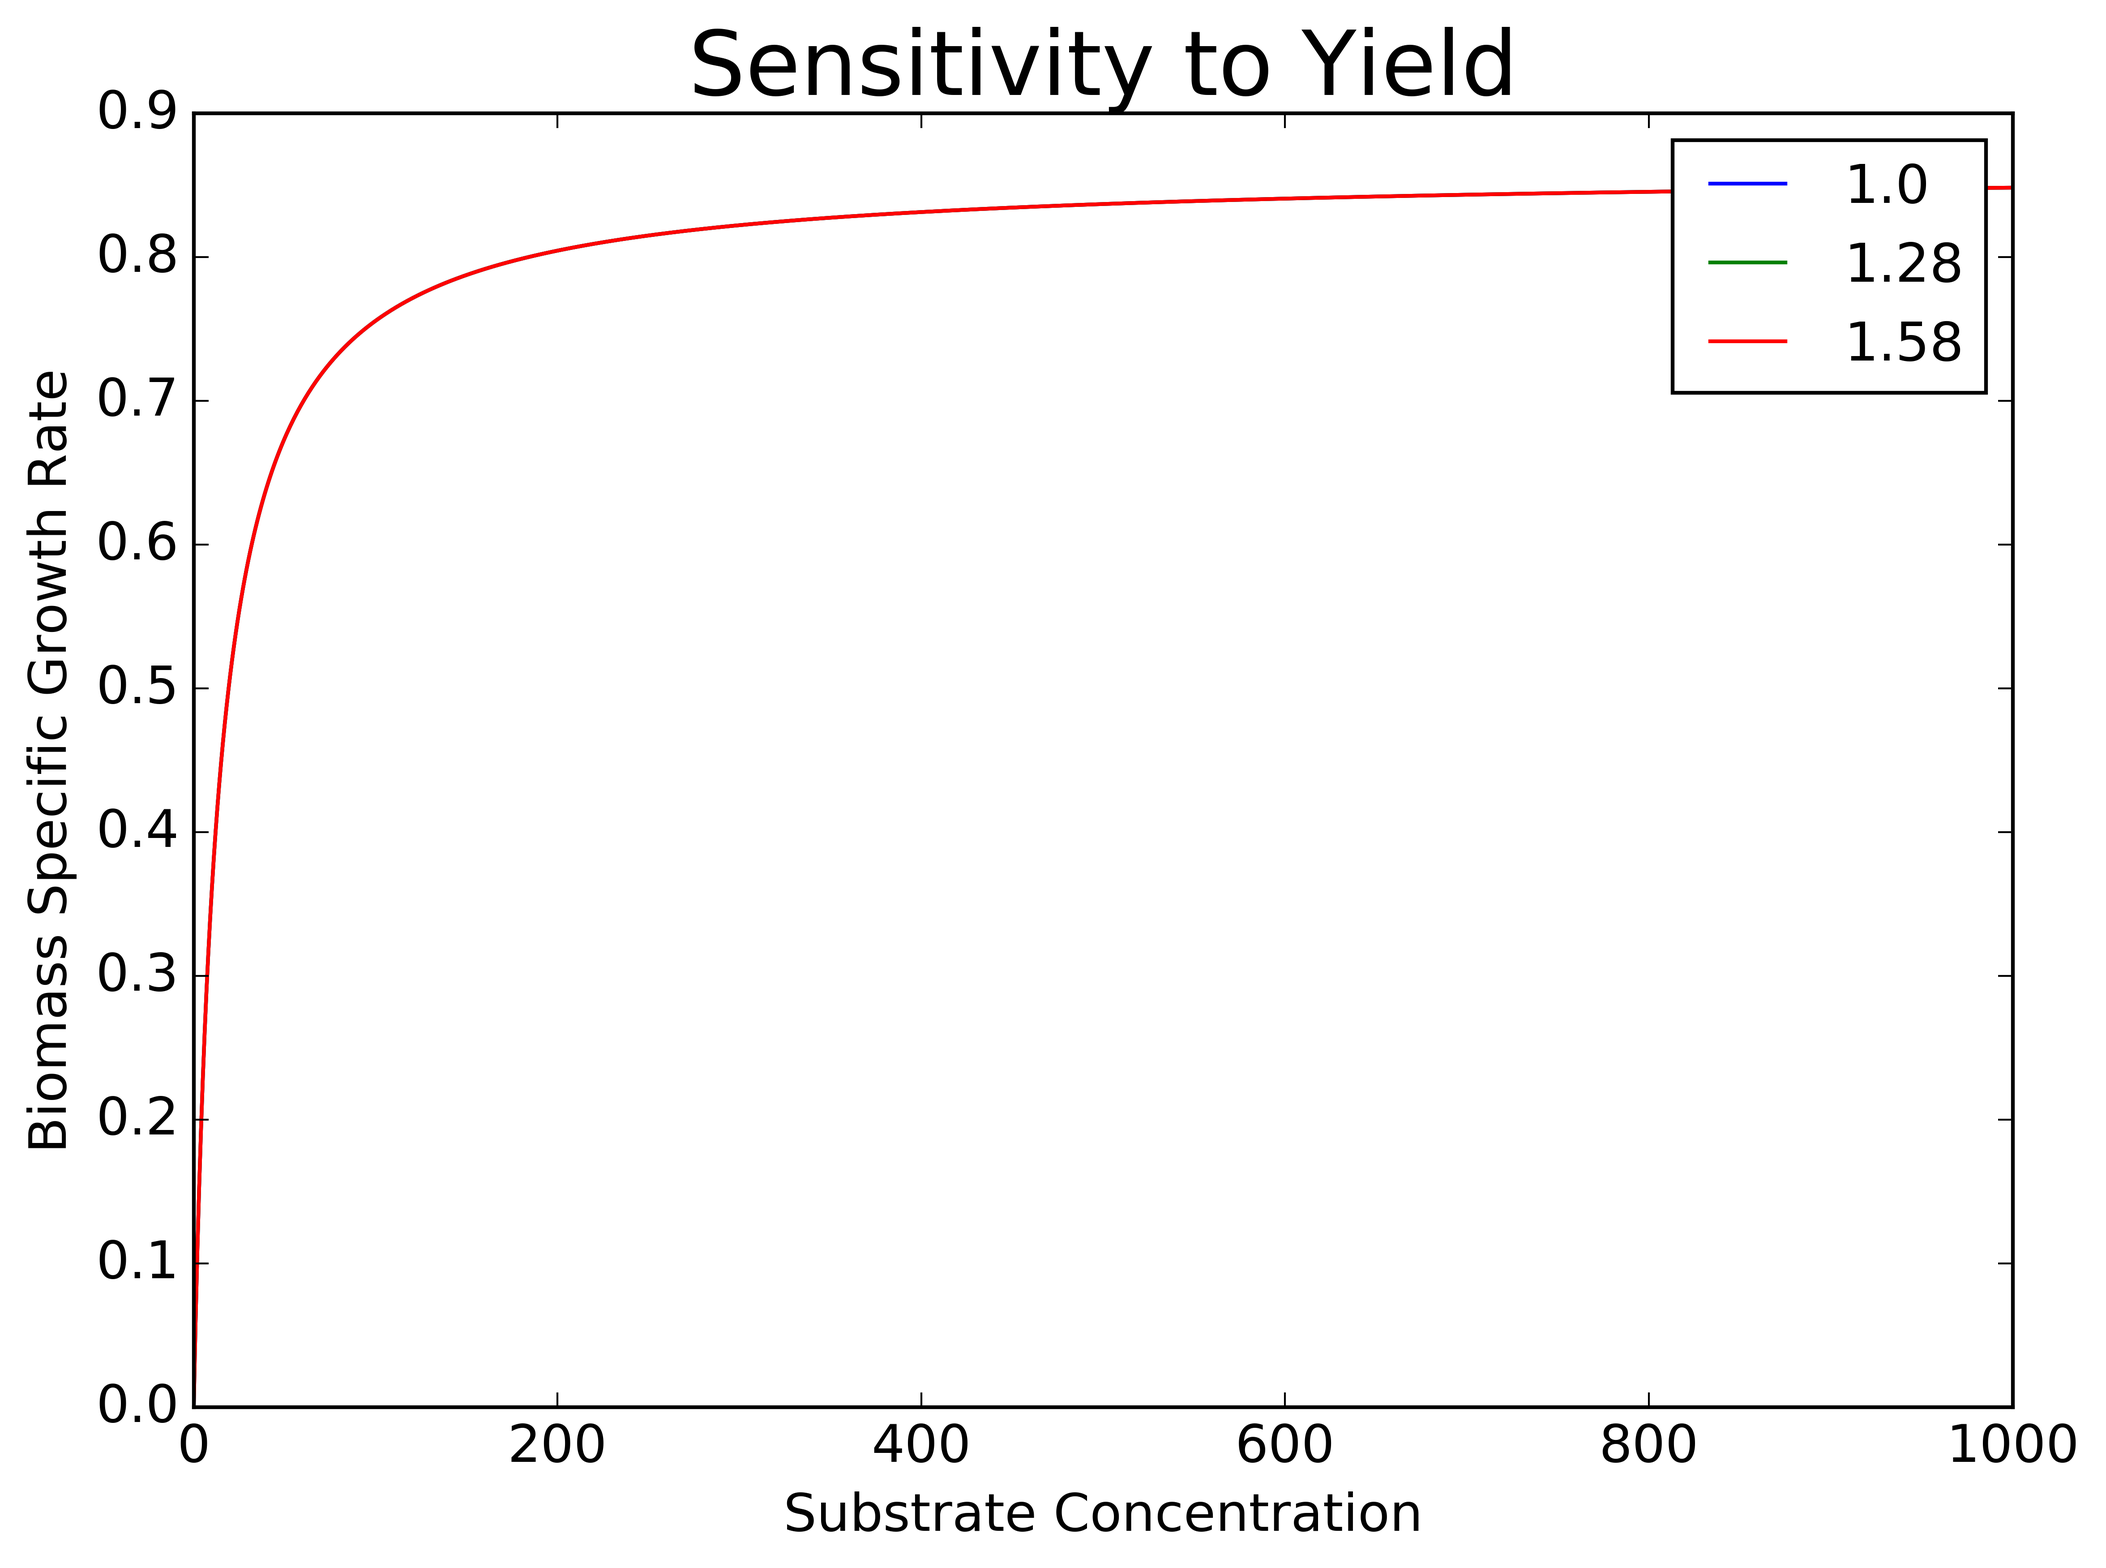
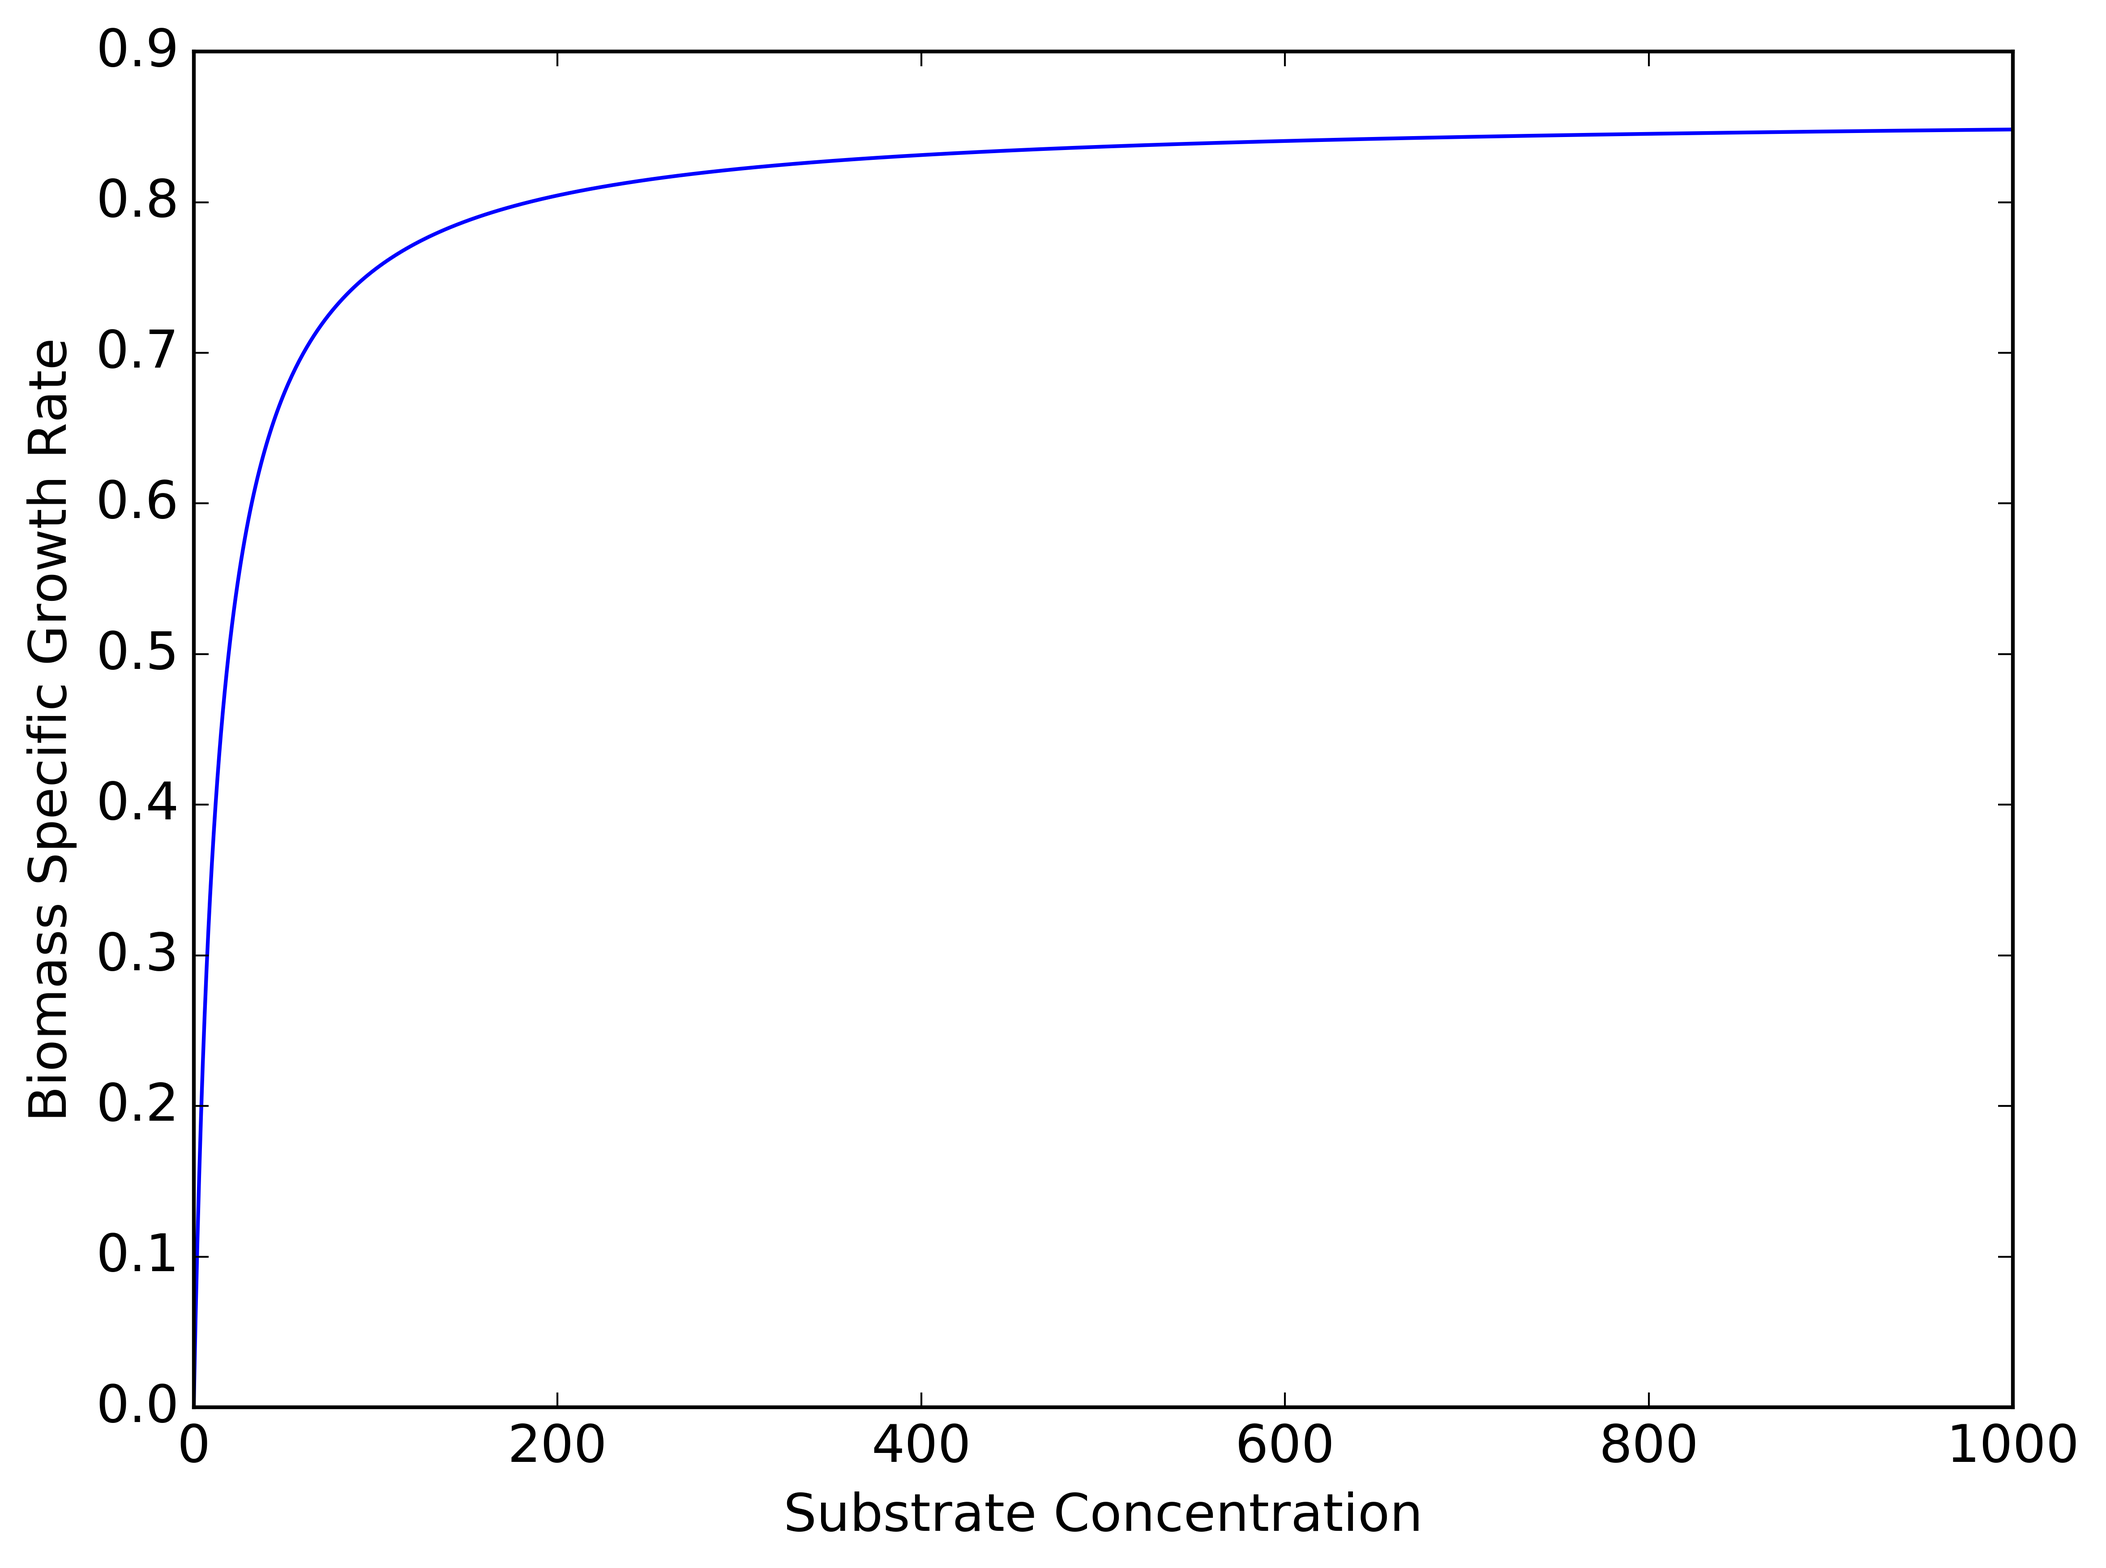
completed substrate batch and made plots

diff --git a/Biodegradation/runbio.py b/Biodegradation/runbio.py
@@ -4,7 +4,10 @@ import matplotlib.style
 import matplotlib as mpl
 from scipy.integrate import odeint
 
+from Biodegradation.Biomass.BiomassBatch import BiomassBatch
+from Biodegradation.Plotting.plotting import Plotting
 from Biodegradation.Substrate.Monod import Monod
+from Biodegradation.Substrate.SubstrateBatch import SubstrateBatch
 
 mpl.style.use('classic')
 number_of_points = 1000
@@ -20,101 +23,50 @@ death_rate = 0.18
 yield_mass = 1.28
 
 monod = Monod(max_biomass_growth_rate, monod_constant, sub_values)
-growthe = monod.growth_rate()
-plt.plot(sub_values, growthe)
-plt.show()
+biomass_growth = monod.growth_rate()
+# plot = Plotting()
+# plot.plotMonod(sub_values, biomass_growth, 'Biomass Specific Growth Rate')
 
-def all_data(number_of_points, max_biomass_growth_rate, monod_constant, initial_sub_conc, initial_biomass_conc,
-             death_rate, yield_mass):
-    sub_values = np.linspace(0, 1000, number_of_points)
-    time = np.linspace(0.01, 10, number_of_points)
-    utilization_rate = np.zeros(len(sub_values))
-    inner_value = np.zeros(len(sub_values))
-    biomass_conc = np.zeros(len(sub_values))
-    sub_conc = np.zeros(len(sub_values))
-    utilization_rate = max_biomass_growth_rate * (sub_values / (monod_constant + sub_values))
-    inner_value = (utilization_rate - death_rate) * time
-    biomass_conc = initial_biomass_conc * np.exp(inner_value)
-    sub_conc = initial_sub_conc - (biomass_conc / yield_mass)
-    return utilization_rate, biomass_conc, sub_conc
+biomass = BiomassBatch(death_rate, initial_biomass_conc, time, biomass_growth)
+biomass_conc = biomass.biomass_concentration_analytical()
+# plot = Plotting()
+# plot.plotConcentration(time, biomass_conc, 'Biomass Concentration')
 
+sub = SubstrateBatch(death_rate, initial_biomass_conc, initial_sub_conc, time, biomass_growth, yield_mass)
+sub_conc = sub.substrate_concentration_analytical()
+# plot = Plotting()
+# plot.plotConcentration(time, sub_conc, 'Substrate Concentration')
 
-# utilization_rate = np.zeros(len(sub_conc))
-# inner_value = np.zeros(len(sub_conc))
-# biomass_conc = np.zeros(len(sub_conc))
-# for i in range(0, len(sub_conc)):
-#     utilization_rate[i] = (max_biomass_growth_rate * sub_conc[i]) / (michaelis_constant + sub_conc[i])
-#     inner_value[i] = (utilization_rate[i] - death_rate) * time[i]
-#     biomass_conc[i] = initial_biomass_conc * np.exp(inner_value[i])
+death_rates = [0.18, 0.28, 0.38]
+death_rates_label = ["Death Rate of 0.18", "Death Rate of 0.28", "Death Rate of 0.38"]
+yield_masses = [1.00, 1.28, 1.58]
+yield_rates_label = ["Yield Rate of 1.00", "Yield Rate of 1.28", "Yield Rate of 1.58"]
 
+biomass_death_multi = []
+sub_death_multi = []
 
-# def dX_dt(inputt , t):
-#     output = inputt[1] * inputt[0]
-#     return output
-#
-#
-# def dS_dt(S, X):
-#     output = -1 / yield_mass * (max_biomass_growth_rate * S / monod_constant + S) * X
-#     return output
-#
-# test=[0,0]
-# x_sol = odeint(dX_dt, test, time)
-# # sol = odeint(dS_dt, initial_sub_conc, biomass_conc)
+biomass_yield_multi = []
+sub_yield_multi = []
+for i in range(len(death_rates)):
+    biomass = BiomassBatch(death_rates[i], initial_biomass_conc, time, biomass_growth)
+    sub = SubstrateBatch(death_rates[i], initial_biomass_conc, initial_sub_conc, time, biomass_growth, yield_mass)
+    sub_conc = sub.substrate_concentration_analytical()
+    biomass_conc = biomass.biomass_concentration_analytical()
+    biomass_death_multi.append(biomass_conc)
+    sub_death_multi.append(sub_conc)
 
-util = []
-biomass = []
-substrate = []
-death_rate = [0.18, 0.28, 0.38]
-yield_mass = [1.00, 1.28, 1.58]
-for i in range(len(death_rate)):
-    utilization_rate, biomass_conc, sub_conc = all_data(number_of_points, max_biomass_growth_rate, monod_constant,
-                                                        initial_sub_conc, initial_biomass_conc, death_rate[0],
-                                                        yield_mass[i])
-    util.append(utilization_rate)
-    biomass.append(biomass_conc)
-    substrate.append(sub_conc)
+for i in range(len(yield_masses)):
+    sub = SubstrateBatch(death_rate, initial_biomass_conc, initial_sub_conc, time, biomass_growth, yield_masses[i])
+    sub_conc = sub.substrate_concentration_analytical()
+    sub_yield_multi.append(sub_conc)
 
-fig, axs = plt.subplots(1, 1)
-axs.plot(sub_values, util[0], label=yield_mass[0])
-axs.plot(sub_values, util[1], label=yield_mass[1])
-axs.plot(sub_values, util[2], label=yield_mass[2])
-axs.legend()
-axs.set_title('Sensitivity to Yield', fontsize=24)
-axs.set_xlabel("Substrate Concentration", fontsize=14)
-axs.set_ylabel("Biomass Specific Growth Rate", fontsize=14)
-plt.setp(axs.get_xticklabels(), fontsize=14)
-plt.setp(axs.get_yticklabels(), fontsize=14)
-plt.show()
-fig.savefig('Monod' '.png', bbox_inches='tight', dpi=600)
-
-fig, axs = plt.subplots(1, 1)
-axs.plot(sub_values, biomass[0], label=yield_mass[0])
-axs.plot(sub_values, biomass[1], label=yield_mass[1])
-axs.plot(sub_values, biomass[2], label=yield_mass[2])
-axs.legend()
-axs.set_title('Sensitivity to Yield', fontsize=24)
-axs.set_xlabel("Time (hours)", fontsize=14)
-axs.set_ylabel("Biomass Concentration (mg)", fontsize=14)
-plt.setp(axs.get_xticklabels(), fontsize=14)
-plt.setp(axs.get_yticklabels(), fontsize=14)
-plt.show()
-fig.savefig('Biomass Conc' '.png', bbox_inches='tight', dpi=600)
-#
-fig, axs = plt.subplots(1, 1)
-axs.plot(sub_values, substrate[0], label=yield_mass[0])
-axs.plot(sub_values, substrate[1], label=yield_mass[1])
-axs.plot(sub_values, substrate[2], label=yield_mass[2])
-axs.legend()
-axs.set_title('Sensitivity to Yield', fontsize=24)
-axs.set_xlabel("Time (hours)", fontsize=14)
-axs.set_ylabel("Substrate Concentration (mg)", fontsize=14)
-plt.setp(axs.get_xticklabels(), fontsize=14)
-plt.setp(axs.get_yticklabels(), fontsize=14)
-plt.show()
-fig.savefig('Substrate Conc' '.png', bbox_inches='tight', dpi=600)
-
-# plt.figure()
-# plt.plot(time, sol)
-# plt.xlabel("Time")
-# plt.ylabel("Substrate Concentration")
-# plt.show()
+plot = Plotting()
+plot.plotConcentrationMultiOnSingle(time, biomass_death_multi, 'Biomass Concentration', death_rates_label,
+                                    format="Biomass",
+                                    title="Death Rate Sensitivity Plots")
+plot.plotConcentrationMultiOnSingle(time, sub_death_multi, 'Substrate Concentration', death_rates_label,
+                                    format="Substrate",
+                                    title="Death Rate Sensitivity Plots")
+plot.plotConcentrationMultiOnSingle(time, sub_yield_multi, 'Substrate Concentration', yield_rates_label,
+                                    format="Substrate Yield",
+                                    title="Yield Sensitivity Plots")

diff --git a/Biodegradation/initial_runfile.py b/Biodegradation/initial_runfile.py
@@ -1,0 +1,99 @@
+import numpy as np
+import matplotlib.pyplot as plt
+import matplotlib.style
+import matplotlib as mpl
+
+def all_data(number_of_points, max_biomass_growth_rate, monod_constant, initial_sub_conc, initial_biomass_conc,
+             death_rate, yield_mass):
+    sub_values = np.linspace(0, 1000, number_of_points)
+    time = np.linspace(0.01, 10, number_of_points)
+    utilization_rate = np.zeros(len(sub_values))
+    inner_value = np.zeros(len(sub_values))
+    biomass_conc = np.zeros(len(sub_values))
+    sub_conc = np.zeros(len(sub_values))
+    utilization_rate = max_biomass_growth_rate * (sub_values / (monod_constant + sub_values))
+    inner_value = (utilization_rate - death_rate) * time
+    biomass_conc = initial_biomass_conc * np.exp(inner_value)
+    sub_conc = initial_sub_conc - (biomass_conc / yield_mass)
+    return utilization_rate, biomass_conc, sub_conc
+
+
+# utilization_rate = np.zeros(len(sub_conc))
+# inner_value = np.zeros(len(sub_conc))
+# biomass_conc = np.zeros(len(sub_conc))
+# for i in range(0, len(sub_conc)):
+#     utilization_rate[i] = (max_biomass_growth_rate * sub_conc[i]) / (michaelis_constant + sub_conc[i])
+#     inner_value[i] = (utilization_rate[i] - death_rate) * time[i]
+#     biomass_conc[i] = initial_biomass_conc * np.exp(inner_value[i])
+
+
+# def dX_dt(inputt , t):
+#     output = inputt[1] * inputt[0]
+#     return output
+#
+#
+# def dS_dt(S, X):
+#     output = -1 / yield_mass * (max_biomass_growth_rate * S / monod_constant + S) * X
+#     return output
+#
+# test=[0,0]
+# x_sol = odeint(dX_dt, test, time)
+# # sol = odeint(dS_dt, initial_sub_conc, biomass_conc)
+
+util = []
+biomass = []
+substrate = []
+death_rate = [0.18, 0.28, 0.38]
+yield_mass = [1.00, 1.28, 1.58]
+for i in range(len(death_rate)):
+    utilization_rate, biomass_conc, sub_conc = all_data(number_of_points, max_biomass_growth_rate, monod_constant,
+                                                        initial_sub_conc, initial_biomass_conc, death_rate[0],
+                                                        yield_mass[i])
+    util.append(utilization_rate)
+    biomass.append(biomass_conc)
+    substrate.append(sub_conc)
+
+fig, axs = plt.subplots(1, 1)
+axs.plot(sub_values, util[0], label=yield_mass[0])
+axs.plot(sub_values, util[1], label=yield_mass[1])
+axs.plot(sub_values, util[2], label=yield_mass[2])
+axs.legend()
+axs.set_title('Sensitivity to Yield', fontsize=24)
+axs.set_xlabel("Substrate Concentration", fontsize=14)
+axs.set_ylabel("Biomass Specific Growth Rate", fontsize=14)
+plt.setp(axs.get_xticklabels(), fontsize=14)
+plt.setp(axs.get_yticklabels(), fontsize=14)
+plt.show()
+fig.savefig('Monod' '.png', bbox_inches='tight', dpi=600)
+
+fig, axs = plt.subplots(1, 1)
+axs.plot(sub_values, biomass[0], label=yield_mass[0])
+axs.plot(sub_values, biomass[1], label=yield_mass[1])
+axs.plot(sub_values, biomass[2], label=yield_mass[2])
+axs.legend()
+axs.set_title('Sensitivity to Yield', fontsize=24)
+axs.set_xlabel("Time (hours)", fontsize=14)
+axs.set_ylabel("Biomass Concentration (mg)", fontsize=14)
+plt.setp(axs.get_xticklabels(), fontsize=14)
+plt.setp(axs.get_yticklabels(), fontsize=14)
+plt.show()
+fig.savefig('Biomass Conc' '.png', bbox_inches='tight', dpi=600)
+#
+fig, axs = plt.subplots(1, 1)
+axs.plot(sub_values, substrate[0], label=yield_mass[0])
+axs.plot(sub_values, substrate[1], label=yield_mass[1])
+axs.plot(sub_values, substrate[2], label=yield_mass[2])
+axs.legend()
+axs.set_title('Sensitivity to Yield', fontsize=24)
+axs.set_xlabel("Time (hours)", fontsize=14)
+axs.set_ylabel("Substrate Concentration (mg)", fontsize=14)
+plt.setp(axs.get_xticklabels(), fontsize=14)
+plt.setp(axs.get_yticklabels(), fontsize=14)
+plt.show()
+fig.savefig('Substrate Conc' '.png', bbox_inches='tight', dpi=600)
+
+# plt.figure()
+# plt.plot(time, sol)
+# plt.xlabel("Time")
+# plt.ylabel("Substrate Concentration")
+# plt.show()

diff --git a/Biodegradation/Plotting/plotting.py b/Biodegradation/Plotting/plotting.py
@@ -1,0 +1,52 @@
+import os
+import matplotlib.pyplot as plt
+import numpy as np
+
+
+class Plotting(object):
+    """
+    This class helps in making plots of data from biodegradation calculations
+
+    """
+
+    def __init__(self):
+        pass
+
+    def plotConcentration(self, time, yValue, yLabel, format='Substrate'):
+        fig, axs = plt.subplots(1, 1)
+        axs.plot(time, yValue)
+        axs.set_xlabel('Time (hours)', fontsize=14)
+        axs.set_ylabel(yLabel, fontsize=14)
+        axs.ticklabel_format(useOffset=False)
+        plt.setp(axs.get_xticklabels(), fontsize=14)
+        plt.setp(axs.get_yticklabels(), fontsize=14)
+        plt.tight_layout()
+        plt.show()
+        fig.savefig(format + ' Concentration' + '.png', bbox_inches='tight', dpi=600)
+
+    def plotMonod(self, sub_conc, growth, yLabel):
+        fig, axs = plt.subplots(1, 1)
+        axs.plot(sub_conc, growth)
+        axs.set_xlabel('Substrate Concentration', fontsize=14)
+        axs.set_ylabel(yLabel, fontsize=14)
+        axs.ticklabel_format(useOffset=False)
+        plt.setp(axs.get_xticklabels(), fontsize=14)
+        plt.setp(axs.get_yticklabels(), fontsize=14)
+        plt.tight_layout()
+        plt.show()
+        fig.savefig('Monod' + '.png', bbox_inches='tight', dpi=600)
+
+    def plotConcentrationMultiOnSingle(self, time, yValue, yLabel, label, format='Substrate', title='Sensitivity'):
+        fig, axs = plt.subplots(1, 1)
+        for i in range(len(yValue)):
+            axs.plot(time, yValue[i], label=label[i])
+        axs.legend()
+        axs.set_xlabel('Time (hours)', fontsize=14)
+        axs.set_ylabel(yLabel, fontsize=14)
+        axs.set_title(title, fontsize=24)
+        axs.ticklabel_format(useOffset=False)
+        plt.setp(axs.get_xticklabels(), fontsize=14)
+        plt.setp(axs.get_yticklabels(), fontsize=14)
+        plt.tight_layout()
+        plt.show()
+        fig.savefig(format + ' Concentration Sensitivity' + '.png', bbox_inches='tight', dpi=600)

diff --git a/Biodegradation/Biomass/BiomassBatch.py b/Biodegradation/Biomass/BiomassBatch.py
@@ -1,16 +1,14 @@
 import numpy as np
+
+
 class BiomassBatch(object):
-    def __init__(self, biomass_growth_rate, death_rate, initial_biomass, time, sub_utilization_rate = None, yield_mass = None):
-        self.yield_mass = yield_mass
-        self.sub_utilization_rate = sub_utilization_rate
+    def __init__(self, death_rate, initial_biomass, time, biomass_growth_rate):
         self.time = time
         self.initial_biomass = initial_biomass
         self.death_rate = death_rate
         self.biomass_growth_rate = biomass_growth_rate
 
     def biomass_concentration_analytical(self):
-        if self.sub_utilization_rate is not None and self.yield_mass is not None:
-            self.biomass_growth_rate = self.sub_utilization_rate * self.yield_mass
         inner_value = (self.biomass_growth_rate - self.death_rate) * self.time
         biomass_X = self.initial_biomass * np.exp(inner_value)
         return biomass_X

diff --git a/Biodegradation/Substrate/SubstrateBatch.py b/Biodegradation/Substrate/SubstrateBatch.py
@@ -1,0 +1,21 @@
+import numpy as np
+
+from Biodegradation.Biomass.BiomassBatch import BiomassBatch
+
+
+class SubstrateBatch(object):
+    def __init__(self, death_rate, initial_biomass, initial_substrate, time, biomass_growth_rate,
+                 yield_mass):
+        self.initial_substrate = initial_substrate
+        self.yield_mass = yield_mass
+        self.time = time
+        self.initial_biomass = initial_biomass
+        self.death_rate = death_rate
+        self.biomass_growth_rate = biomass_growth_rate
+
+    def substrate_concentration_analytical(self):
+        biomass = BiomassBatch(self.death_rate, self.initial_biomass, self.time,
+                                         self.biomass_growth_rate)
+        bio_concentration = biomass.biomass_concentration_analytical()
+        sub_concentration = self.initial_substrate - (bio_concentration/self.yield_mass)
+        return sub_concentration
